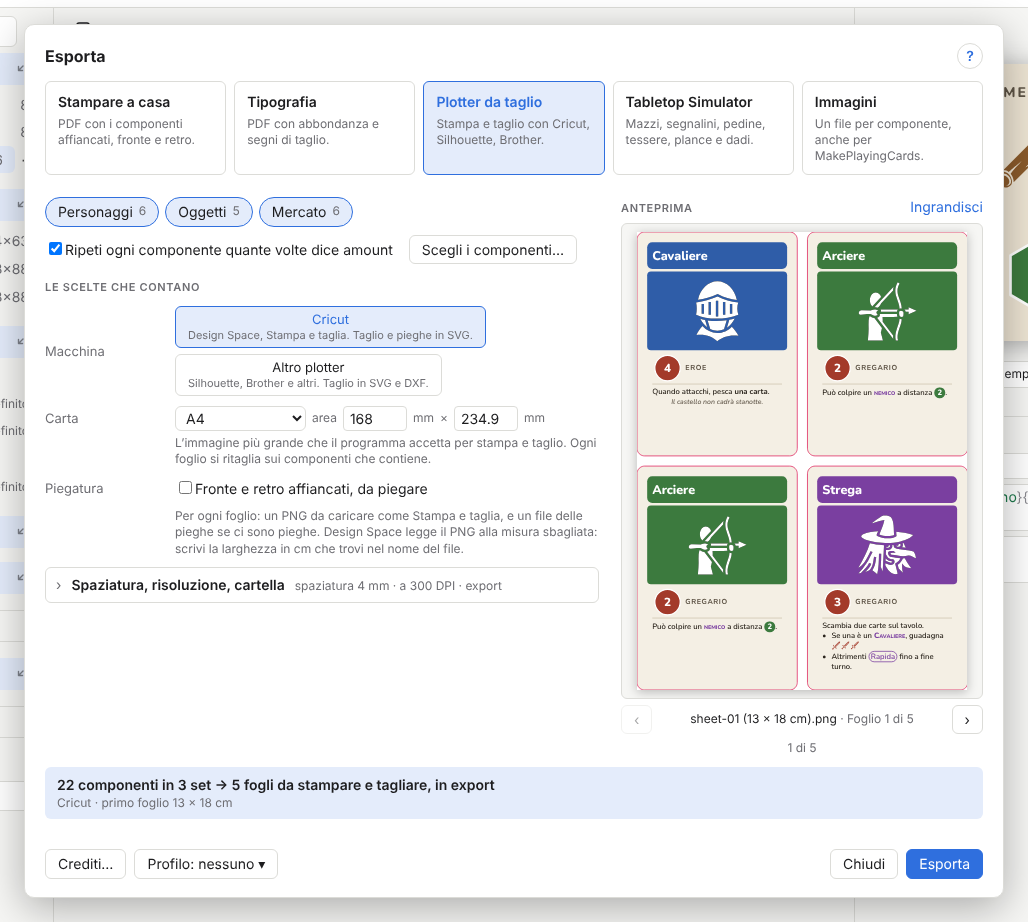
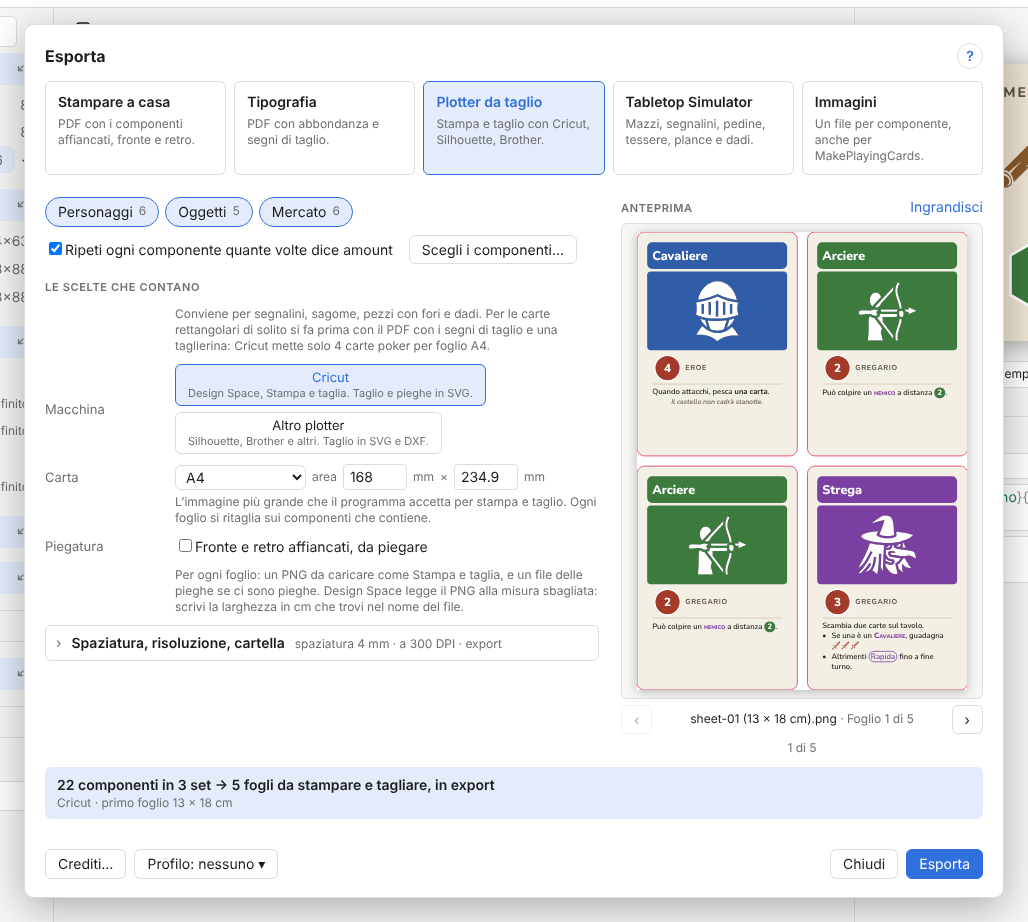
Plotter da taglio: consiglio su quando usarlo
Nella finestra e nella guida: conviene per segnalini, sagome, fori e dadi;
per le carte rettangolari il PDF con i segni di taglio.

Claude-Session: https://claude.ai/code/session_01QmKvjxDPfT4Koc84TiDSbm

diff --git a/src/renderer/src/i18n/it.ts b/src/renderer/src/i18n/it.ts
@@ -1978,6 +1978,8 @@ export const it: Record<MessageKey, string> = {
     'Per ogni foglio: un PNG da caricare come Stampa e taglia, e un file delle pieghe se ci sono pieghe. Design Space legge il PNG alla misura sbagliata: scrivi la larghezza in cm che trovi nel nome del file.',
   'cut.hintOther':
     'Per ogni foglio: un PNG da stampare, e le linee di taglio in SVG e DXF della stessa misura. Silhouette Studio Basic apre solo il DXF.',
+  'cut.when':
+    'Conviene per segnalini, sagome, pezzi con fori e dadi. Per le carte rettangolari di solito si fa prima con il PDF con i segni di taglio e una taglierina: Cricut mette solo 4 carte poker per foglio A4.',
   'cut.moreSection': 'Spaziatura, risoluzione, cartella',
   'cut.spacingHint':
     'Spazio tra i componenti. Il plotter taglia lungo il contorno, bastano pochi millimetri.',

diff --git a/src/renderer/src/i18n/en.ts b/src/renderer/src/i18n/en.ts
@@ -1949,6 +1949,8 @@ export const en = {
     'For each sheet: a PNG to upload as Print Then Cut, and a folds file if there are folds. Design Space reads the PNG at the wrong size: type the width in cm written in the file name.',
   'cut.hintOther':
     'For each sheet: a PNG to print, and the cut lines as SVG and DXF of the same size. Silhouette Studio Basic opens only the DXF.',
+  'cut.when':
+    'Best for tokens, custom shapes, pieces with holes and dice. For rectangular cards a PDF with crop marks and a paper trimmer is usually faster: Cricut fits only 4 poker cards per A4 sheet.',
   'cut.moreSection': 'Spacing, resolution, folder',
   'cut.spacingHint':
     'Space between components. The plotter cuts along the outline, so a few millimetres are enough.',

diff --git a/src/renderer/src/export/ExportDialog.tsx b/src/renderer/src/export/ExportDialog.tsx
@@ -937,6 +937,7 @@ export default function ExportDialog({
   const cutOptions = kind === 'cut' && (
     <>
       <h3 className="export-heading">{t('export.matters')}</h3>
+      <p className="export-hint">{t('cut.when')}</p>
       <Choice
         label={t('cut.machine')}
         value={cut.machine}

diff --git a/docs/guida/README.md b/docs/guida/README.md
@@ -1071,6 +1071,8 @@ I fogli si richiamano con indirizzi locali, quindi il mazzo funziona sul compute
 
 **Plotter da taglio** prepara i componenti per una macchina che stampa e taglia: Cricut (Design Space, funzione **Stampa e taglia**), Silhouette, Brother ScanNCut e simili. La stampante stampa il foglio, la macchina legge i segni di registro e taglia lungo il contorno di ogni componente, angoli arrotondati, esagoni, sagome e fori compresi.
 
+Conviene per i pezzi che una taglierina non taglia: segnalini tondi o sagomati, esagoni, pezzi con fori, dadi da piegare. Per le carte rettangolari di solito si fa prima con il PDF con i segni di taglio e una taglierina, perché con Cricut su A4 entrano solo 4 carte poker per foglio.
+
 I programmi di queste macchine accettano un'immagine non più grande di un'area fissa, che dipende dalla carta: **Macchina** e **Carta** la scelgono (per Cricut su A4 e Letter 16,8 × 23,49 cm: Cricut dichiara fino a 18,3 cm di larghezza, ma con una Maker la stampa passa solo sotto 16,9 cm, perché Design Space aggiunge l'abbondanza), e i due campi accanto la cambiano a mano. Stella mette nell'area quanti più componenti possibile, girandoli se così ne entrano di più, con la **Spaziatura** tra l'uno e l'altro (di base 4 mm). Poi ritaglia ogni foglio sui componenti che contiene, così il programma della macchina non deve indovinare dove cominciano.
 
 ![Esportazione per plotter da taglio](img/esporta-plotter.png)

diff --git a/docs/guide/README.md b/docs/guide/README.md
@@ -1071,6 +1071,8 @@ Sheets are referenced by local addresses, so the deck works on the computer that
 
 **Cutting plotter** prepares the components for a machine that prints and cuts: Cricut (Design Space, **Print Then Cut**), Silhouette, Brother ScanNCut and similar. The printer prints the sheet, the machine reads the registration marks and cuts along the outline of each component, rounded corners, hexagons, custom shapes and holes included.
 
+It is best for pieces a paper trimmer cannot cut: round or custom-shaped tokens, hexagons, pieces with holes, dice to fold. For rectangular cards a PDF with crop marks and a trimmer is usually faster, since Cricut fits only 4 poker cards per A4 sheet.
+
 The programs of these machines accept an image no larger than a fixed area, which depends on the paper: **Machine** and **Paper** choose it (for Cricut on A4 and Letter 16.8 × 23.49 cm: Cricut states up to 18.3 cm wide, but with a Maker printing works only below 16.9 cm, because Design Space adds bleed), and the two fields next to it change it by hand. Stella fits as many components as it can in the area, turning them if more fit that way, with the **Spacing** between them (4 mm by default). Then it crops each sheet to the components it holds, so the machine's program does not have to guess where they start.
 
 ![Export for cutting plotters](img/esporta-plotter.png)
